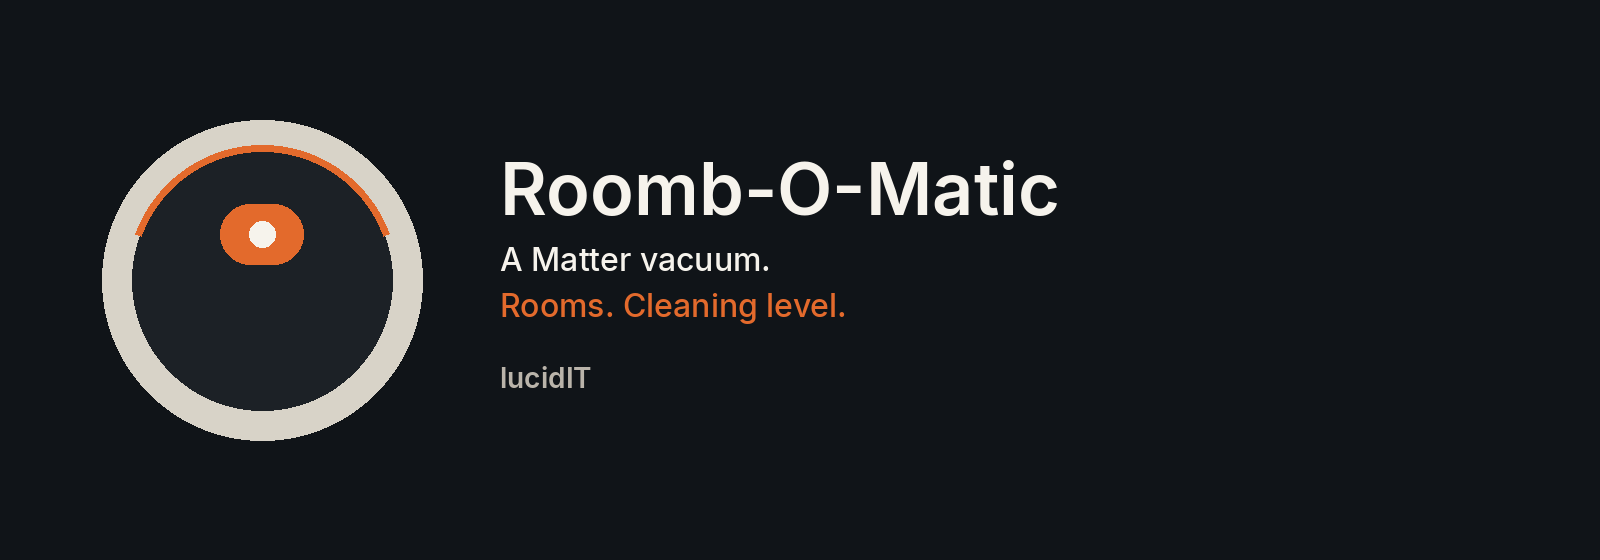
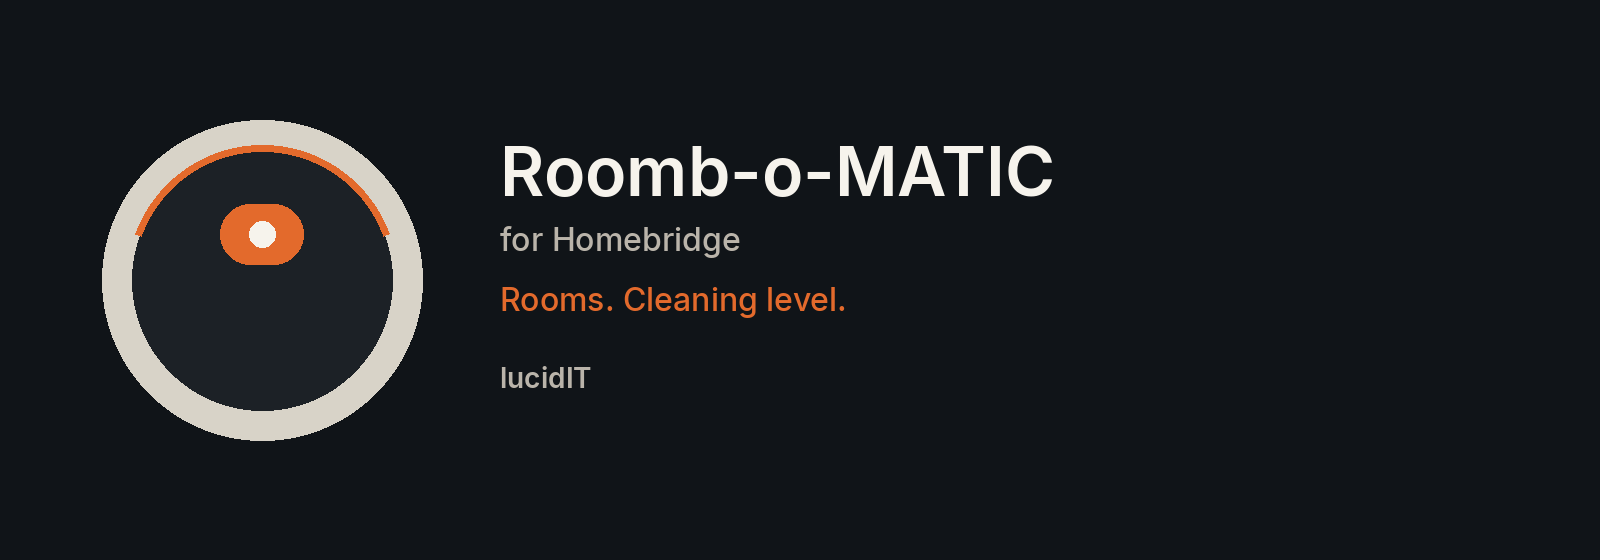
docs: name the plugin Roomb-o-MATIC for Homebridge
The name people see changes. The config platform string stays Roomb-O-Matic
so existing Homebridge setups keep working.

Changed region(s): [[0.3125, 0.2429, 0.6562, 0.4857], [0.3125, 0.5161, 0.5312, 0.5768]]

diff --git a/homebridge-ui/public/index.html b/homebridge-ui/public/index.html
@@ -3,7 +3,7 @@
   <head>
     <meta charset="utf-8">
     <meta name="viewport" content="width=device-width, initial-scale=1">
-    <title>Roomb-O-Matic</title>
+    <title>Roomb-o-MATIC for Homebridge</title>
     <style>
       :root { color-scheme: light dark; font-family: "Segoe UI", sans-serif; }
       body { margin: 0; padding: 24px; max-width: 860px; }
@@ -24,7 +24,7 @@
     </style>
   </head>
   <body>
-    <h1>Roomb-O-Matic</h1>
+    <h1>Roomb-o-MATIC for Homebridge</h1>
     <p>Capture the robot password on the local network. This works in Docker without a terminal.</p>
     <div class="card">
       <h2>Before you press the button</h2>
@@ -89,7 +89,7 @@
       const devicesNode = document.getElementById('devices')
       let platform = {
         platform: 'Roomb-O-Matic',
-        name: 'Roomb-O-Matic',
+        name: 'Roomb-o-MATIC',
         disableDiscovery: true,
         enableMatter: 'auto',
         devices: [],
@@ -320,7 +320,7 @@
       })
 
       document.getElementById('save-button').addEventListener('click', async () => {
-        platform.name = platform.name || 'Roomb-O-Matic'
+        platform.name = platform.name || 'Roomb-o-MATIC'
         platform.platform = 'Roomb-O-Matic'
         platform.disableDiscovery = document.getElementById('disable-discovery').checked
         platform.enableMatter = document.getElementById('enable-matter').value

diff --git a/README.md b/README.md
@@ -1,10 +1,10 @@
-# Roomb-O-Matic
+# Roomb-o-MATIC for Homebridge
 
-![Roomb-O-Matic, a Matter vacuum with rooms and a cleaning level, by lucidIT](assets/header.png)
+![Roomb-o-MATIC for Homebridge, a Matter vacuum with rooms and a cleaning level, by lucidIT](assets/header.png)
 
 Matter vacuum for your Roomba on Homebridge. Choose the rooms and the cleaning level: Automatic, Deep Clean, or Quick.
 
-Roomb-O-Matic is that plugin, from [lucidIT](https://lucidit.io). On Homebridge 2.5 the Roomba shows up in Apple Home as its own Matter vacuum. You pair that vacuum with its own code. The Homebridge bridge code does not add the robot.
+Roomb-o-MATIC is that plugin, from [lucidIT](https://lucidit.io). On Homebridge 2.5 the Roomba shows up in Apple Home as its own Matter vacuum. You pair that vacuum with its own code. The Homebridge bridge code does not add the robot.
 
 The HomeKit fan, dock, battery, and bin stay for controllers that are not using Matter.
 
@@ -46,12 +46,12 @@ The level you pick applies to a room clean and to a whole-home clean.
 
 ## Configure
 
-Use the Roomb-O-Matic page in Homebridge, or edit `config.json`:
+Use the Roomb-o-MATIC page in Homebridge, or edit `config.json`:
 
 ```json
 {
   "platform": "Roomb-O-Matic",
-  "name": "Roomb-O-Matic",
+  "name": "Roomb-o-MATIC",
   "disableDiscovery": true,
   "enableMatter": "auto",
   "devices": [
@@ -72,7 +72,7 @@ Use the Roomb-O-Matic page in Homebridge, or edit `config.json`:
 }
 ```
 
-`platform` stays `Roomb-O-Matic`. `enableMatter` accepts `auto` (default), `on`, or `off`. `auto` publishes the Matter vacuum when that bridge has Matter available.
+`platform` stays `Roomb-O-Matic`. That string is what Homebridge already has in existing configs. The name people see is Roomb-o-MATIC. `enableMatter` accepts `auto` (default), `on`, or `off`. `auto` publishes the Matter vacuum when that bridge has Matter available.
 
 A saved `devices` list uses local MQTT and skips the iRobot cloud. `disableDiscovery: true` does the same. If cloud discovery fails or comes back empty, accessories Homebridge already cached stay registered, and discovery retries with backoff.
 
@@ -84,7 +84,7 @@ On an i-series robot such as the i5+, press and hold the **Home** button for abo
 
 The plugin reads the password on port 8883 and retries while it waits for the button. It keeps a leading `:1:` when the robot sends one. That prefix is part of the password. Dropping it makes MQTT answer "Bad username or password". Capture the password again if a robot saved by an older build fails local login that way.
 
-In Homebridge, open Roomb-O-Matic, enter the robot IP, and choose **Capture password**. The page does not print the password or BLID. Saving the form writes them into `devices` and turns cloud login off.
+In Homebridge, open Roomb-o-MATIC, enter the robot IP, and choose **Capture password**. The page does not print the password or BLID. Saving the form writes them into `devices` and turns cloud login off.
 
 From a shell, including `docker exec` without a TTY:
 
@@ -97,7 +97,7 @@ Add `--blid YOUR_BLID` when the robot does not answer the local announcement. Th
 ## Matter pairing
 
 1. In Homebridge, open Settings and turn Matter on for the bridge that runs this plugin. Restart Homebridge.
-2. Save the robot on the Roomb-O-Matic page.
+2. Save the robot on the Roomb-o-MATIC page.
 3. Open that page again and use the code under **Matter pairing**. In Apple Home, add an accessory and enter the code, or scan the QR code.
 
 ## HomeKit
@@ -115,6 +115,6 @@ npm run build
 
 Do not put real BLIDs, passwords, Matter pairing codes, or personal addresses in this repository.
 
-This is Roomb-O-Matic from lucidIT. It is not the `homebridge-plugins/homebridge-roomba` plugin.
+This is Roomb-o-MATIC for Homebridge, from lucidIT. It is not the `homebridge-plugins/homebridge-roomba` plugin.
 
 Roomba is a trademark of iRobot. The marks in this package belong to lucidIT. They are not iRobot's logos.

diff --git a/CLAUDE.md b/CLAUDE.md
@@ -1,11 +1,11 @@
-# Roomb-O-Matic
+# Roomb-o-MATIC for Homebridge
 
 This repository is `homebridge-roomb-o-matic`, restored from npm `1.2.1`. Source `1.3.0` was not published. `1.3.1` is the npm release: that 1.3.0 work, plus the local-password slice fix and Matter Vacuum tags. It is not `homebridge-plugins/homebridge-roomba`.
 
 - `npm test` — vitest
 - `npm run lint` — ESLint, zero warnings
 - `npm run build` — `tsc` into `dist/`
-- Platform name is exactly `Roomb-O-Matic` (`src/settings.ts`)
+- Public name is `Roomb-o-MATIC for Homebridge`. The config platform name stays exactly `Roomb-O-Matic` (`src/settings.ts`)
 - Package type is ESM. Relative imports use `.js`
 - Do not log a robot password or BLID
 - Do not publish to npm from this checkout
